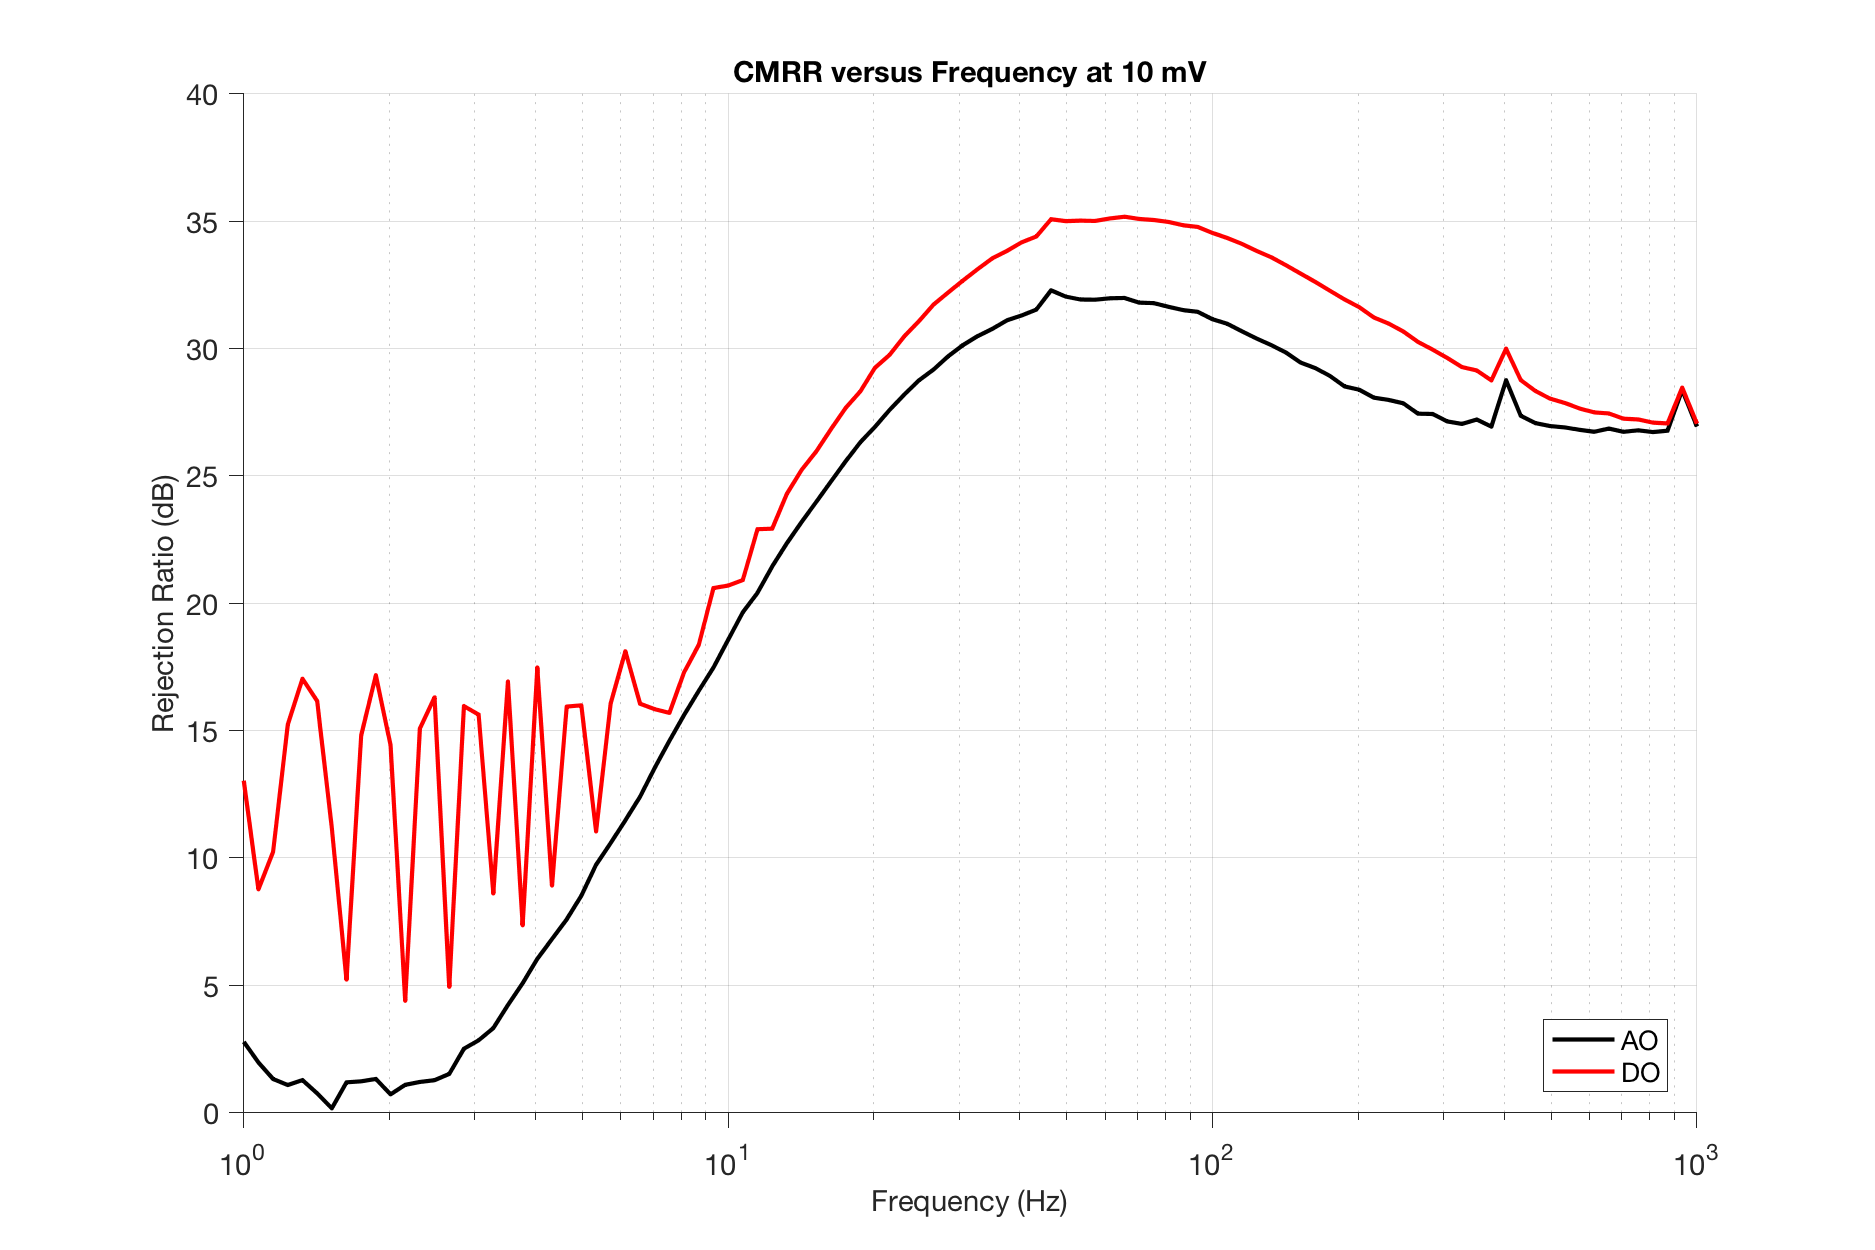
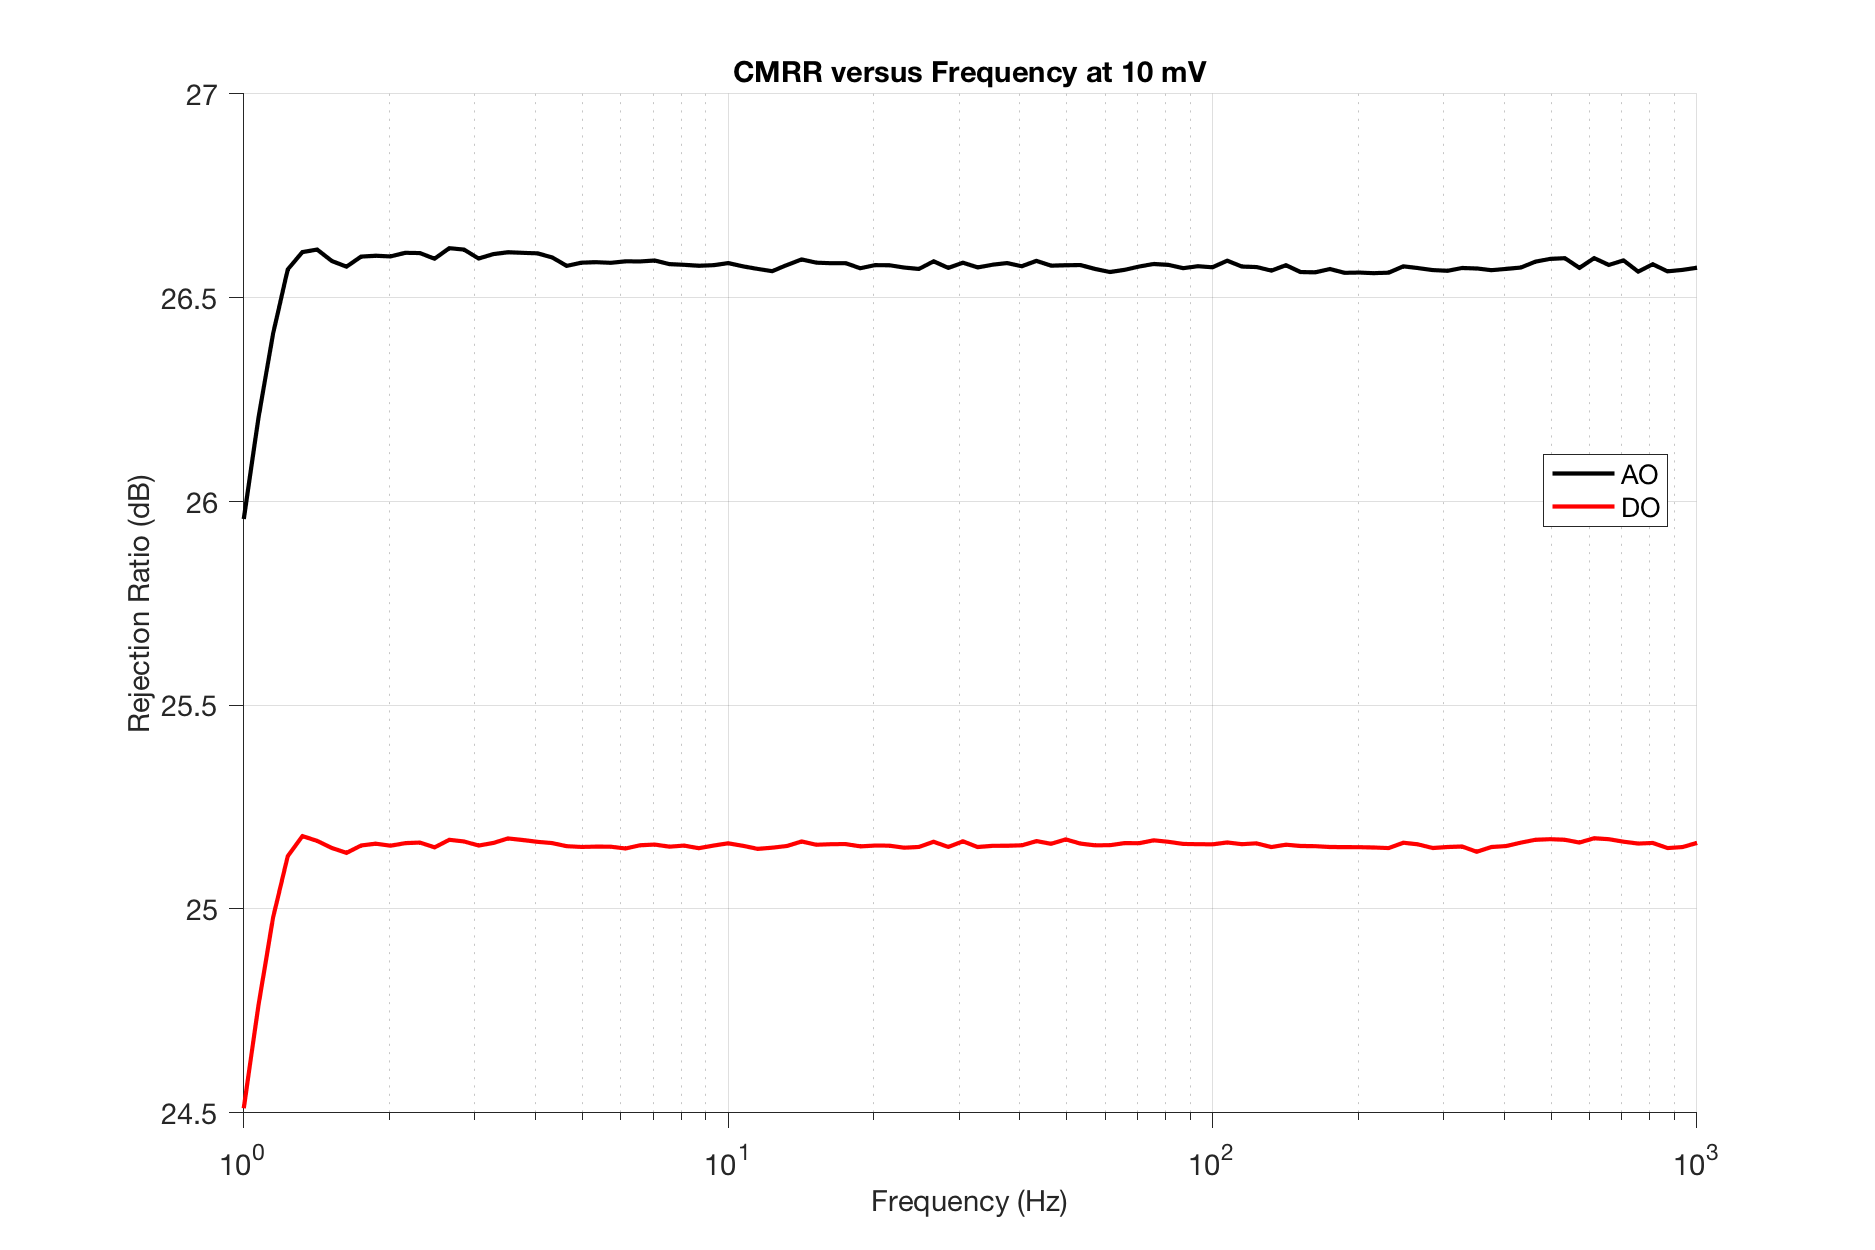
SNR addition

diff --git a/Software/SpecAutom/specFigs.m b/Software/SpecAutom/specFigs.m
@@ -20,24 +20,10 @@ clear i j
 dt = 1/1e4;
 t = (0:dt:1-dt)';
 
-%% Proof Plots
-pf = [30 67 80];
-for i = 1:3
-    figure(i); j = pf(i);
-    plot(t, FD{j}(:,3), 'k', t, FD{j}(:,1), 'r')
-    ylim([0 1.2])
-    xlabel('Time (s)');
-    ylabel('Amplitude (V)');
-    title(sprintf('System Response at 10 mV, %0.1f Hz',F(j)));
-    legend('Analog','Digital','location','best');
-    fixplot;
-    eval(sprintf('print -dpng Proof%d',i));
-end
-
 %% Frequency Response
-figure(4);
-Y = [cellfun(@(x) peakmag(x(:,3)), FD), cellfun(@(x) peakmag(x(:,1)), FD)];
-semilogx(F, Y(:,1), 'k', F, Y(:,2), 'r');
+figure(1);
+Y = [cellfun(@(x,f) peakmag(x(:,3), 1e-2, f), FD, num2cell(F)), cellfun(@(x,f) peakmag(x(:,1), 1e-2, f), FD, num2cell(F))];
+semilogx(F, Y(:,1)-max(Y(:,1)), 'k', F, Y(:,2)-max(Y(:,2)), 'r');
 xlabel('Frequency (Hz)')
 ylabel('Response (dB)');
 title('Frequency Response for Sinusoidal Input')
@@ -45,9 +31,22 @@ legend('Analog','Digital','location','best');
 fixplot;
 print -dpng FRQResp
 
+%% Gain
+figure(2);
+Y = [cellfun(@(x,a) peakmag(x(:,3), a), AD, num2cell(A)), cellfun(@(x,a) peakmag(x(:,1), a), AD, num2cell(A))];
+semilogx(A, Y(:,1),'k', A, Y(:,2),'r');
+xlabel('Input (V)');
+ylabel('Gain (dB)')
+title('Gain at 100 Hz');
+legend('Analog','Digital','location','best');
+fixplot
+print -dpng Gain
+
+G = Y(55,:);
+
 %% Common Mode Rejection
-figure(5);
-Y = [cellfun(@(x,y) peakcmr(x(:,3), y(:,3)), FD, FC), cellfun(@(x,y) peakcmr(x(:,1), y(:,1)), FD, FC)];
+figure(3);
+Y = -[cellfun(@(x,f) peakmag(x(:,3)/G(1), 1e-2, f), FC, num2cell(F)), cellfun(@(x,f) peakmag(x(:,1)/G(2), 1e-2, f), FC, num2cell(F))];
 semilogx(F, Y(:,1), 'k', F, Y(:,2), 'r');
 xlabel('Frequency (Hz)');
 ylabel('Rejection Ratio (dB)');
@@ -56,8 +55,8 @@ legend('AO','DO','location','best');
 fixplot;
 print -dpng CmrrFRQ
 
-figure(6);
-Y = [cellfun(@(x,y) peakcmr(x(:,3), y(:,3)), AD, AC), cellfun(@(x,y) peakcmr(x(:,1), y(:,1)), AD, AC)];
+figure(4);
+Y = -[cellfun(@(x,a) peakmag(x(:,3)/G(1), a), AC, num2cell(A)), cellfun(@(x,a) peakmag(x(:,1)/G(2), a), AC, num2cell(A))];
 semilogx(A, Y(:,1), 'k', A, Y(:,2),'r');
 xlabel('Input (V)');
 ylabel('Rejection Ratio (dB)');
@@ -66,20 +65,35 @@ legend('Analog','Digital','location','best');
 fixplot;
 print -dpng CmrrAMP
 
-%% Gain
-figure(7);
-E = (1+50/5.6)*(1+10/10)*(1+100/10)*(1+5.6/10);
-Y = [cellfun(@(x,a) peakmag(x(:,3), a), AD, num2cell(A)), cellfun(@(x,a) peakmag(x(:,1), a), AD, num2cell(A))];
-semilogx(A, Y(:,1),'k', A, Y(:,2),'r',A,20*log10(E)+A*0,'k:');
+fprintf('CMRR1: %0.0f (%0.2f)\n',Y(end,1),10^(Y(end,1)/20))
+fprintf('CMRR2: %0.0f (%0.2f)\n',Y(end,2),10^(Y(end,2)/20))
+
+%% SNR
+figure(5);
+Y = [cellfun(@(x) peakmag(x(:,3), FC{1}(:,3)), FD), cellfun(@(x) peakmag(x(:,1), FC{1}(:,1)), FD)];
+semilogx(F, Y(:,1), 'k', F, Y(:,2), 'r');
+xlabel('Frequency (Hz)');
+ylabel('Signal to Noise Ratio (dB)');
+title('SNR versus Frequency at 10 mV');
+legend('AO','DO','location','best');
+fixplot;
+print -dpng SnrFRQ
+
+fprintf('SNR1: %0.0f (%0.2f)\n',Y(67,1),10^(Y(67,1)/20))
+fprintf('SNR2: %0.0f (%0.2f)\n',Y(67,2),10^(Y(67,2)/20))
+
+figure(6);
+Y = [cellfun(@(x) peakmag(x(:,3), AC{1}(:,3)), AD), cellfun(@(x) peakmag(x(:,1), AC{1}(:,1)), AD)];
+semilogx(A, Y(:,1), 'k', A, Y(:,2),'r');
 xlabel('Input (V)');
-ylabel('Gain (dB)')
-title('Gain at 100 Hz');
+ylabel('Signal to Noise Ratio (dB)');
+title('SNR versus Amplitude at 100 Hz');
 legend('Analog','Digital','location','best');
-fixplot
-print -dpng Gain
+fixplot;
+print -dpng SnrAMP
 
 %% Power
-figure(8);
+figure(7);
 Y = 1e3*(cellfun(@(x) peakcur(x(:,2), R(1)), FD) + cellfun(@(x) peakcur(x(:,4), R(2)), FD));
 semilogx(F, Y(:,1), 'k');
 xlabel('Frequency (Hz)');
@@ -88,7 +102,7 @@ title('Max Current versus Frequency at 10 mV');
 fixplot;
 print -dpng PowerFRQ
 
-figure(9);
+figure(8);
 Y = 1e3*(cellfun(@(x) peakcur(x(:,2), R(1)), AD) + cellfun(@(x) peakcur(x(:,4), R(2)), AD));
 semilogx(A, Y(:,1), 'k');
 xlabel('Input (V)');
@@ -98,13 +112,12 @@ fixplot
 print -dpng PowerAMP
 
 %% Auxiliary Functions
-function out = peakmag(y, A)
-    if nargin < 3 || isempty(A); A = 0.01; end
-    out = 20*log10(sqrt(bandpower(y/A,1e4,[0 5e3])));
-end
-
-function out = peakcmr(y, x)
-    out = 20*log10(sqrt(bandpower(y,1e4,[0 5e3])/bandpower(x,1e4,[0 5e3])));
+function out = peakmag(y, A, f)
+    t = (0:1e-4:1-1e-4)';
+    if nargin < 3 || isempty(f); f = 100; end
+    if nargin < 2 || isempty(A); A = 0.01; end
+    if length(A) == 1; A = A*sin(2*pi*f*t); end 
+    out = 20*log10(sqrt(bandpower(y,1e4,[0 5e3])/bandpower(A,1e4,[0 5e3])));
 end
 
 function out = peakcur(y, R)

diff --git a/Software/SpecAutom/perfAnyl.m b/Software/SpecAutom/perfAnyl.m
@@ -1,0 +1,43 @@
+clear;
+%% Import the data
+[~, ~, raw] = xlsread('../../Forms/Testing.xlsx','Analysis');
+dat = cell2mat(raw(2:end,3:23));
+clear raw
+
+%% Organize data
+R = dat(1, 1:7);
+P = zeros(15,7,2);
+M = zeros(3,7,2);
+D = zeros(3,7,2);
+for i = 1:3
+    for j = [1 3]
+        P((1:5)+(i-1)*5,:,round(j/2)) = dat(4*(0:4)+j+1,(7*i-6):(7*i));
+        M(i,:,round(j/2)) = mean(dat(4*(0:4)+j+1,(7*i-6):(7*i)),1);
+        D(i,:,round(j/2)) = std(dat(4*(0:4)+j+1,(7*i-6):(7*i)),[],1)/sqrt(5);
+    end
+end
+clear dat
+
+%% Error Bar Plot
+figure(1)
+errorbar(repmat(R',[1 3]),100*M(:,:,2)',100*D(:,:,2)',100*D(:,:,2)')
+xlabel('Gain Resistance (K\Omega)')
+ylabel('False Positive Rate (%)')
+title('False Positive for Increasing Gain Resistance')
+fixplot
+
+%% Lilliefors
+N = zeros(3,7,2);
+V(1) = vartestn(P(:,:,1));
+V(2) = vartestn(P(:,:,2));
+for i = 1:3
+    for j = 1:7
+        for k = 1:2
+            [~, N(i,j,k)] = lillietest(P((1:5)+(i-1)*5,j,k));
+        end
+    end
+end
+
+%% 2 Way Anova
+[H1, T1, S1] = anova2(P(:,:,1),5);
+[H2, T2, S2] = anova2(P(:,:,2),5);
